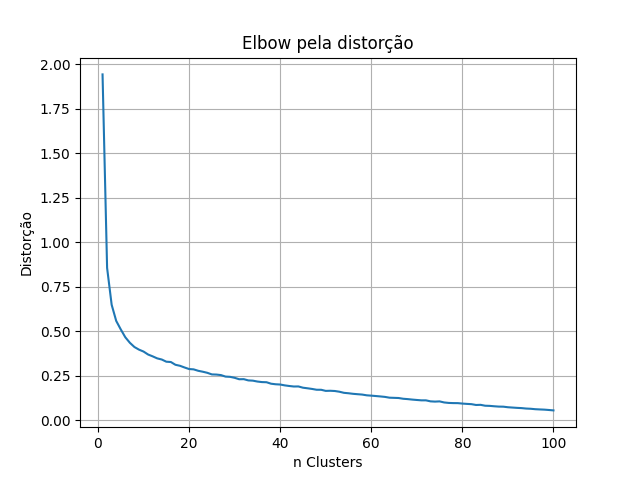
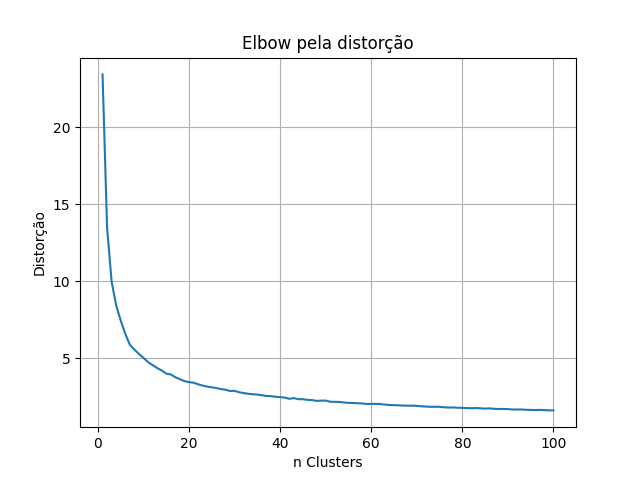
a

diff --git a/clusterizacao/treinar_iris_cluster_KMeans.py b/clusterizacao/treinar_iris_cluster_KMeans.py
@@ -1,0 +1,58 @@
+# CLUSTER
+# Determinação do número ótimo de grupos
+
+import pandas as pd
+
+obesity = pd.read_csv('C:\\Users\\Usuário\\Documents\\GitHub\\Faculdade-Sistemas-Inteligentes-Avancados\\Aula15-03\\ObesityDataSet_raw_and_data_sinthetic.csv', sep = ',')
+
+
+# Excluir o atribudo class
+obesity = obesity.drop(columns=['Gender','family_history_with_overweight', 'FAVC', 'CAEC','SMOKE','SCC','CALC','MTRANS','NObeyesdad' ])
+print(obesity.head(5))
+
+# Determinar o número ótimo de grupos pela distorcao
+from sklearn.cluster import KMeans # Clusterização
+import matplotlib.pyplot as plt
+import math
+from scipy.spatial.distance import cdist # Para calcular as distâncias e distorções
+import numpy as np # Para procedimentos númericos
+
+distortions = []
+K = range(1, 101)
+
+# treinar iterativamente conforme n_clusters = K[i]
+for i in K:
+    obesity_kmeans_model = KMeans(n_clusters = i).fit(obesity)
+    distortions.append(sum(np.min(cdist(obesity, obesity_kmeans_model.cluster_centers_, 'euclidean'), axis = 1)/obesity.shape[0]))
+
+print(distortions)
+
+# Exibir o gráfico das distorções
+fig, ax = plt.subplots()
+ax.plot(K, distortions)
+ax.set(xlabel = 'n Clusters', ylabel = 'Distorção', title = 'Elbow pela distorção')
+ax.grid()
+fig.savefig('clusterizacao\elbow_distorcao.png')
+plt.show()
+
+# Calcular o número ótimo de clusters
+x0 = K[0]
+y0 = distortions[0]
+xn = K[len(K) - 1]
+yn = distortions[len(distortions)-1]
+# Iterar nos pontos gerados durante os treinamentos preliminares
+distancias = []
+for i in range(len(distortions)):
+    x = K[i]
+    y = distortions[i]
+    numerador = abs((yn-y0)*x - (xn-x0)*y + xn*y0 - yn*x0)
+    denominador = math.sqrt((yn-y0)**2 + (xn-x0)**2)
+    distancias.append(numerador/denominador)
+
+# Maior distância
+n_clusters_otimo = K[distancias.index(np.max(distancias))]
+
+obesity_kmeans_model = KMeans(n_clusters = n_clusters_otimo, random_state=42).fit(obesity)
+
+from pickle import dump
+dump(obesity_kmeans_model, open("C:\\Users\\yann_\\OneDrive\\Documentos\\GitHub\\Faculdade-Sistemas-Inteligentes-Avancados\\clusterizacao\\obesity_cluster.pkl", "wb"))
